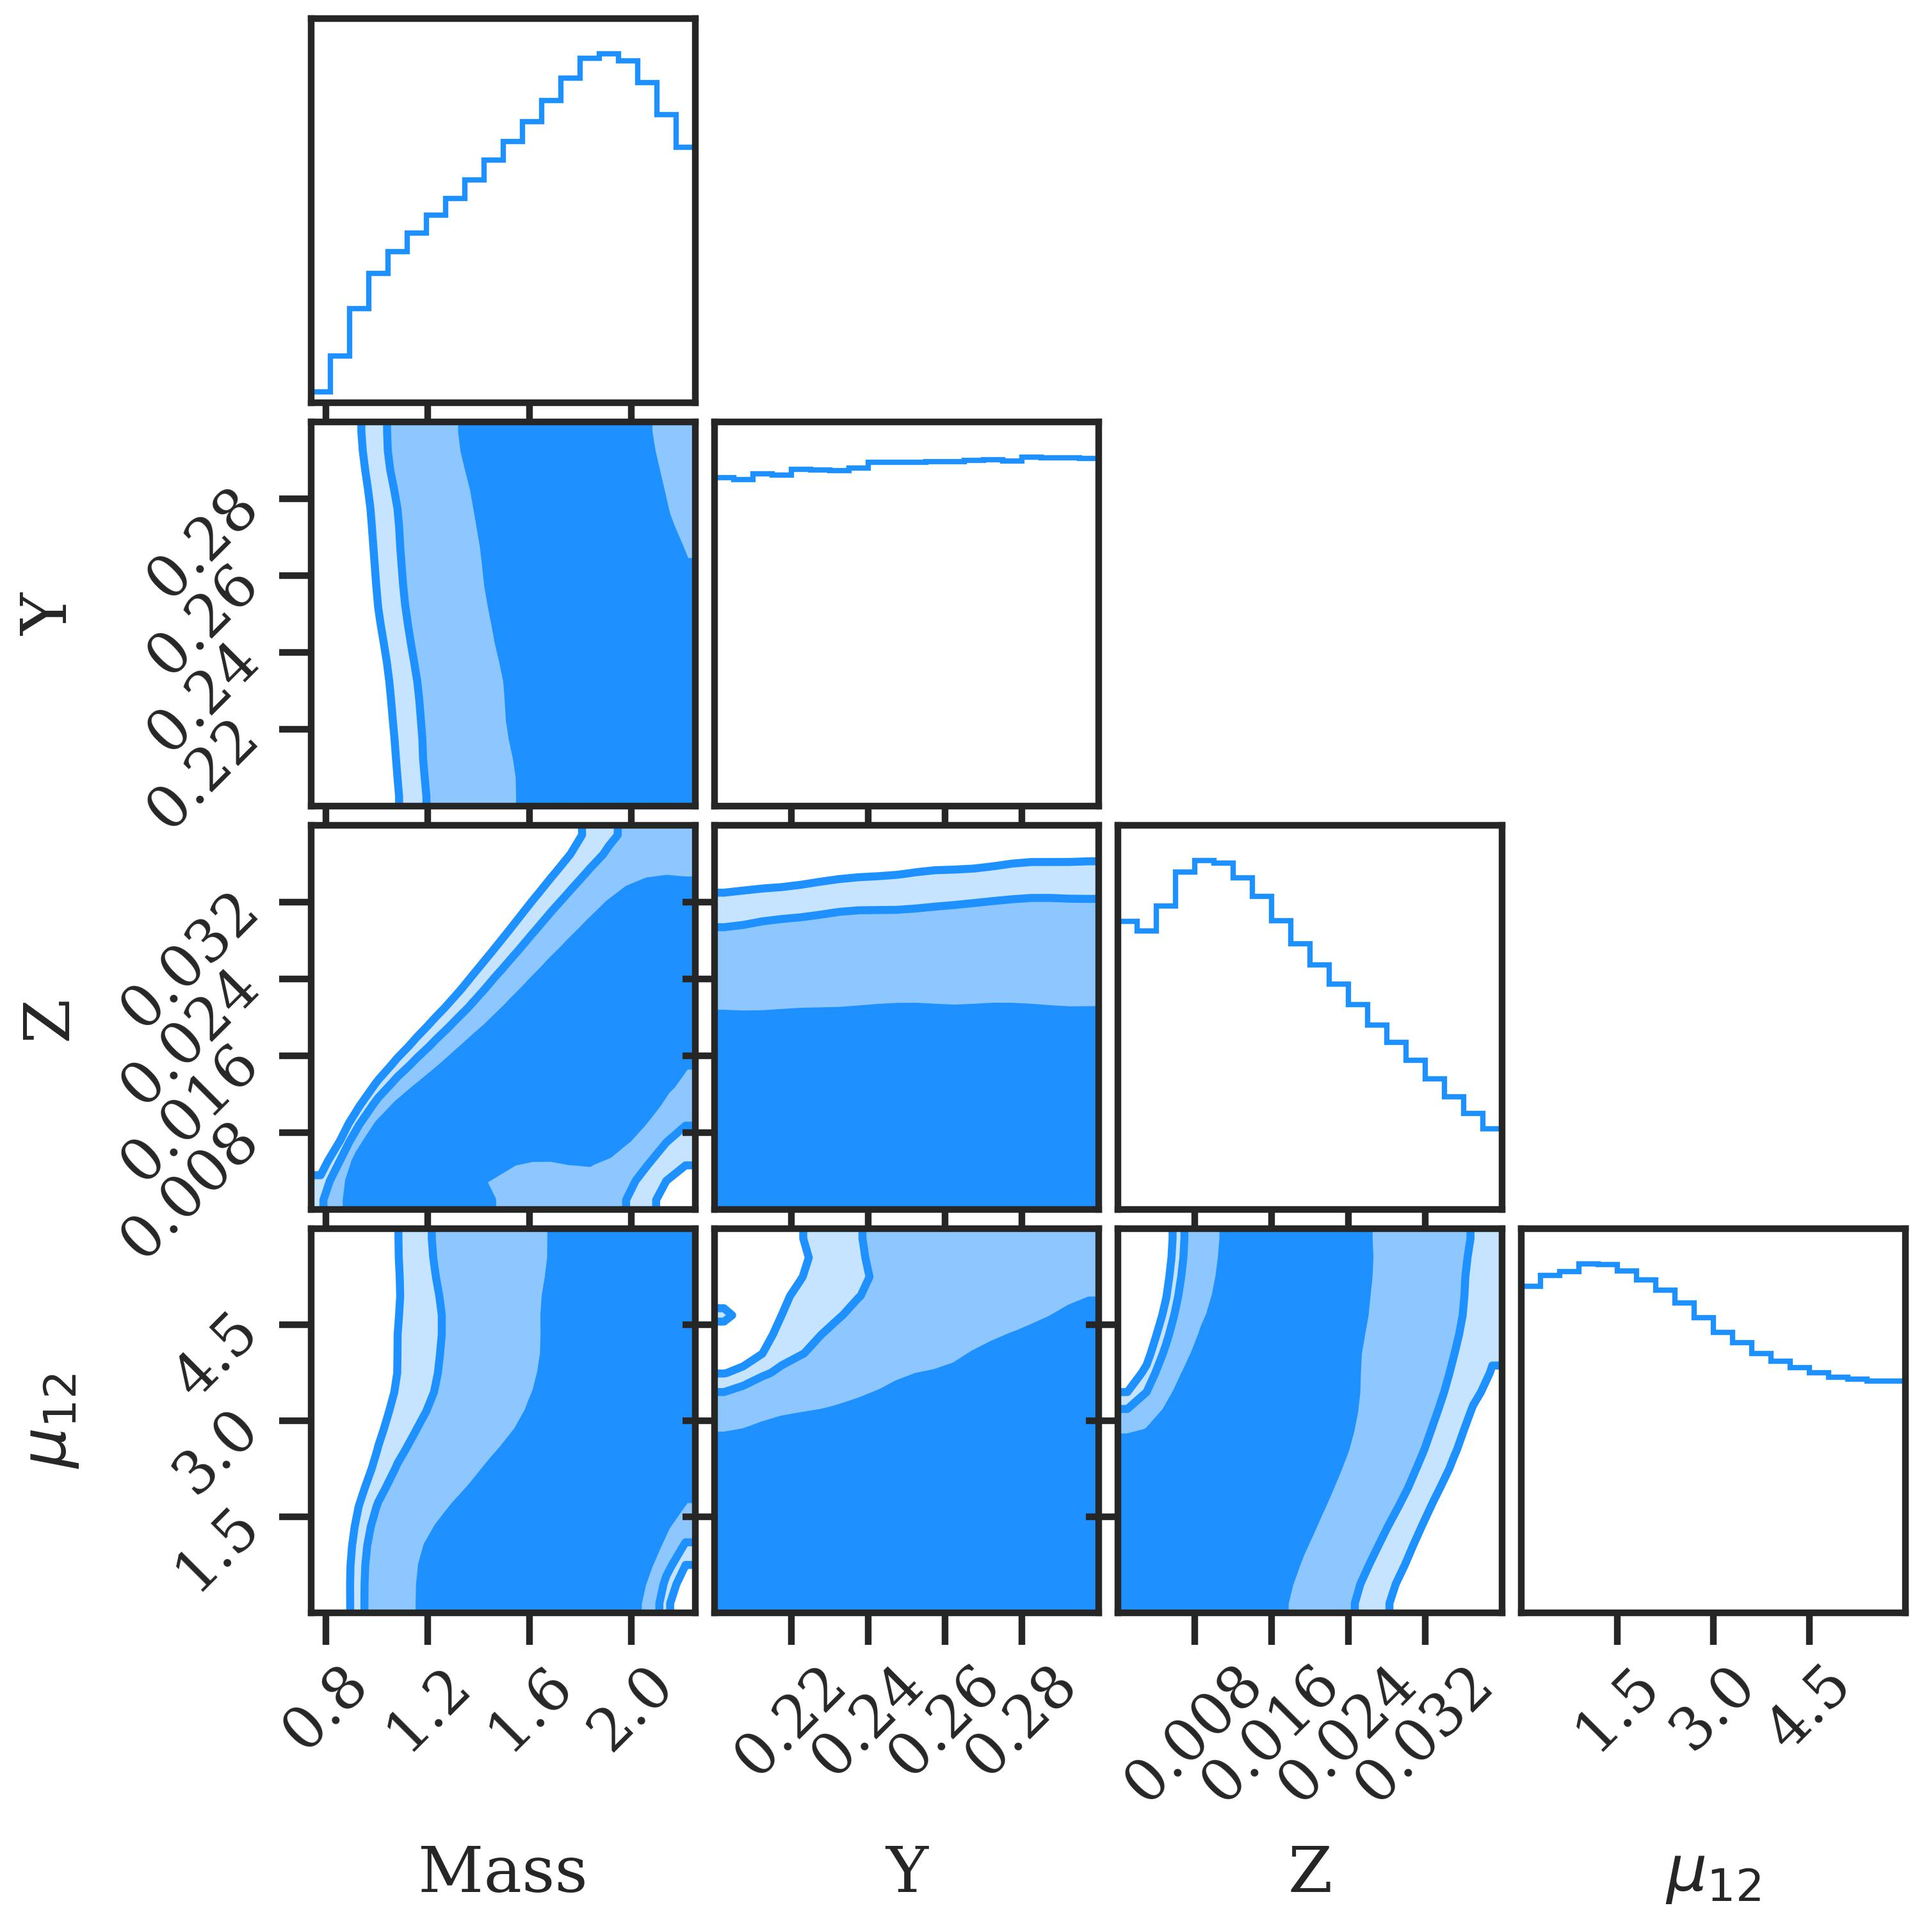
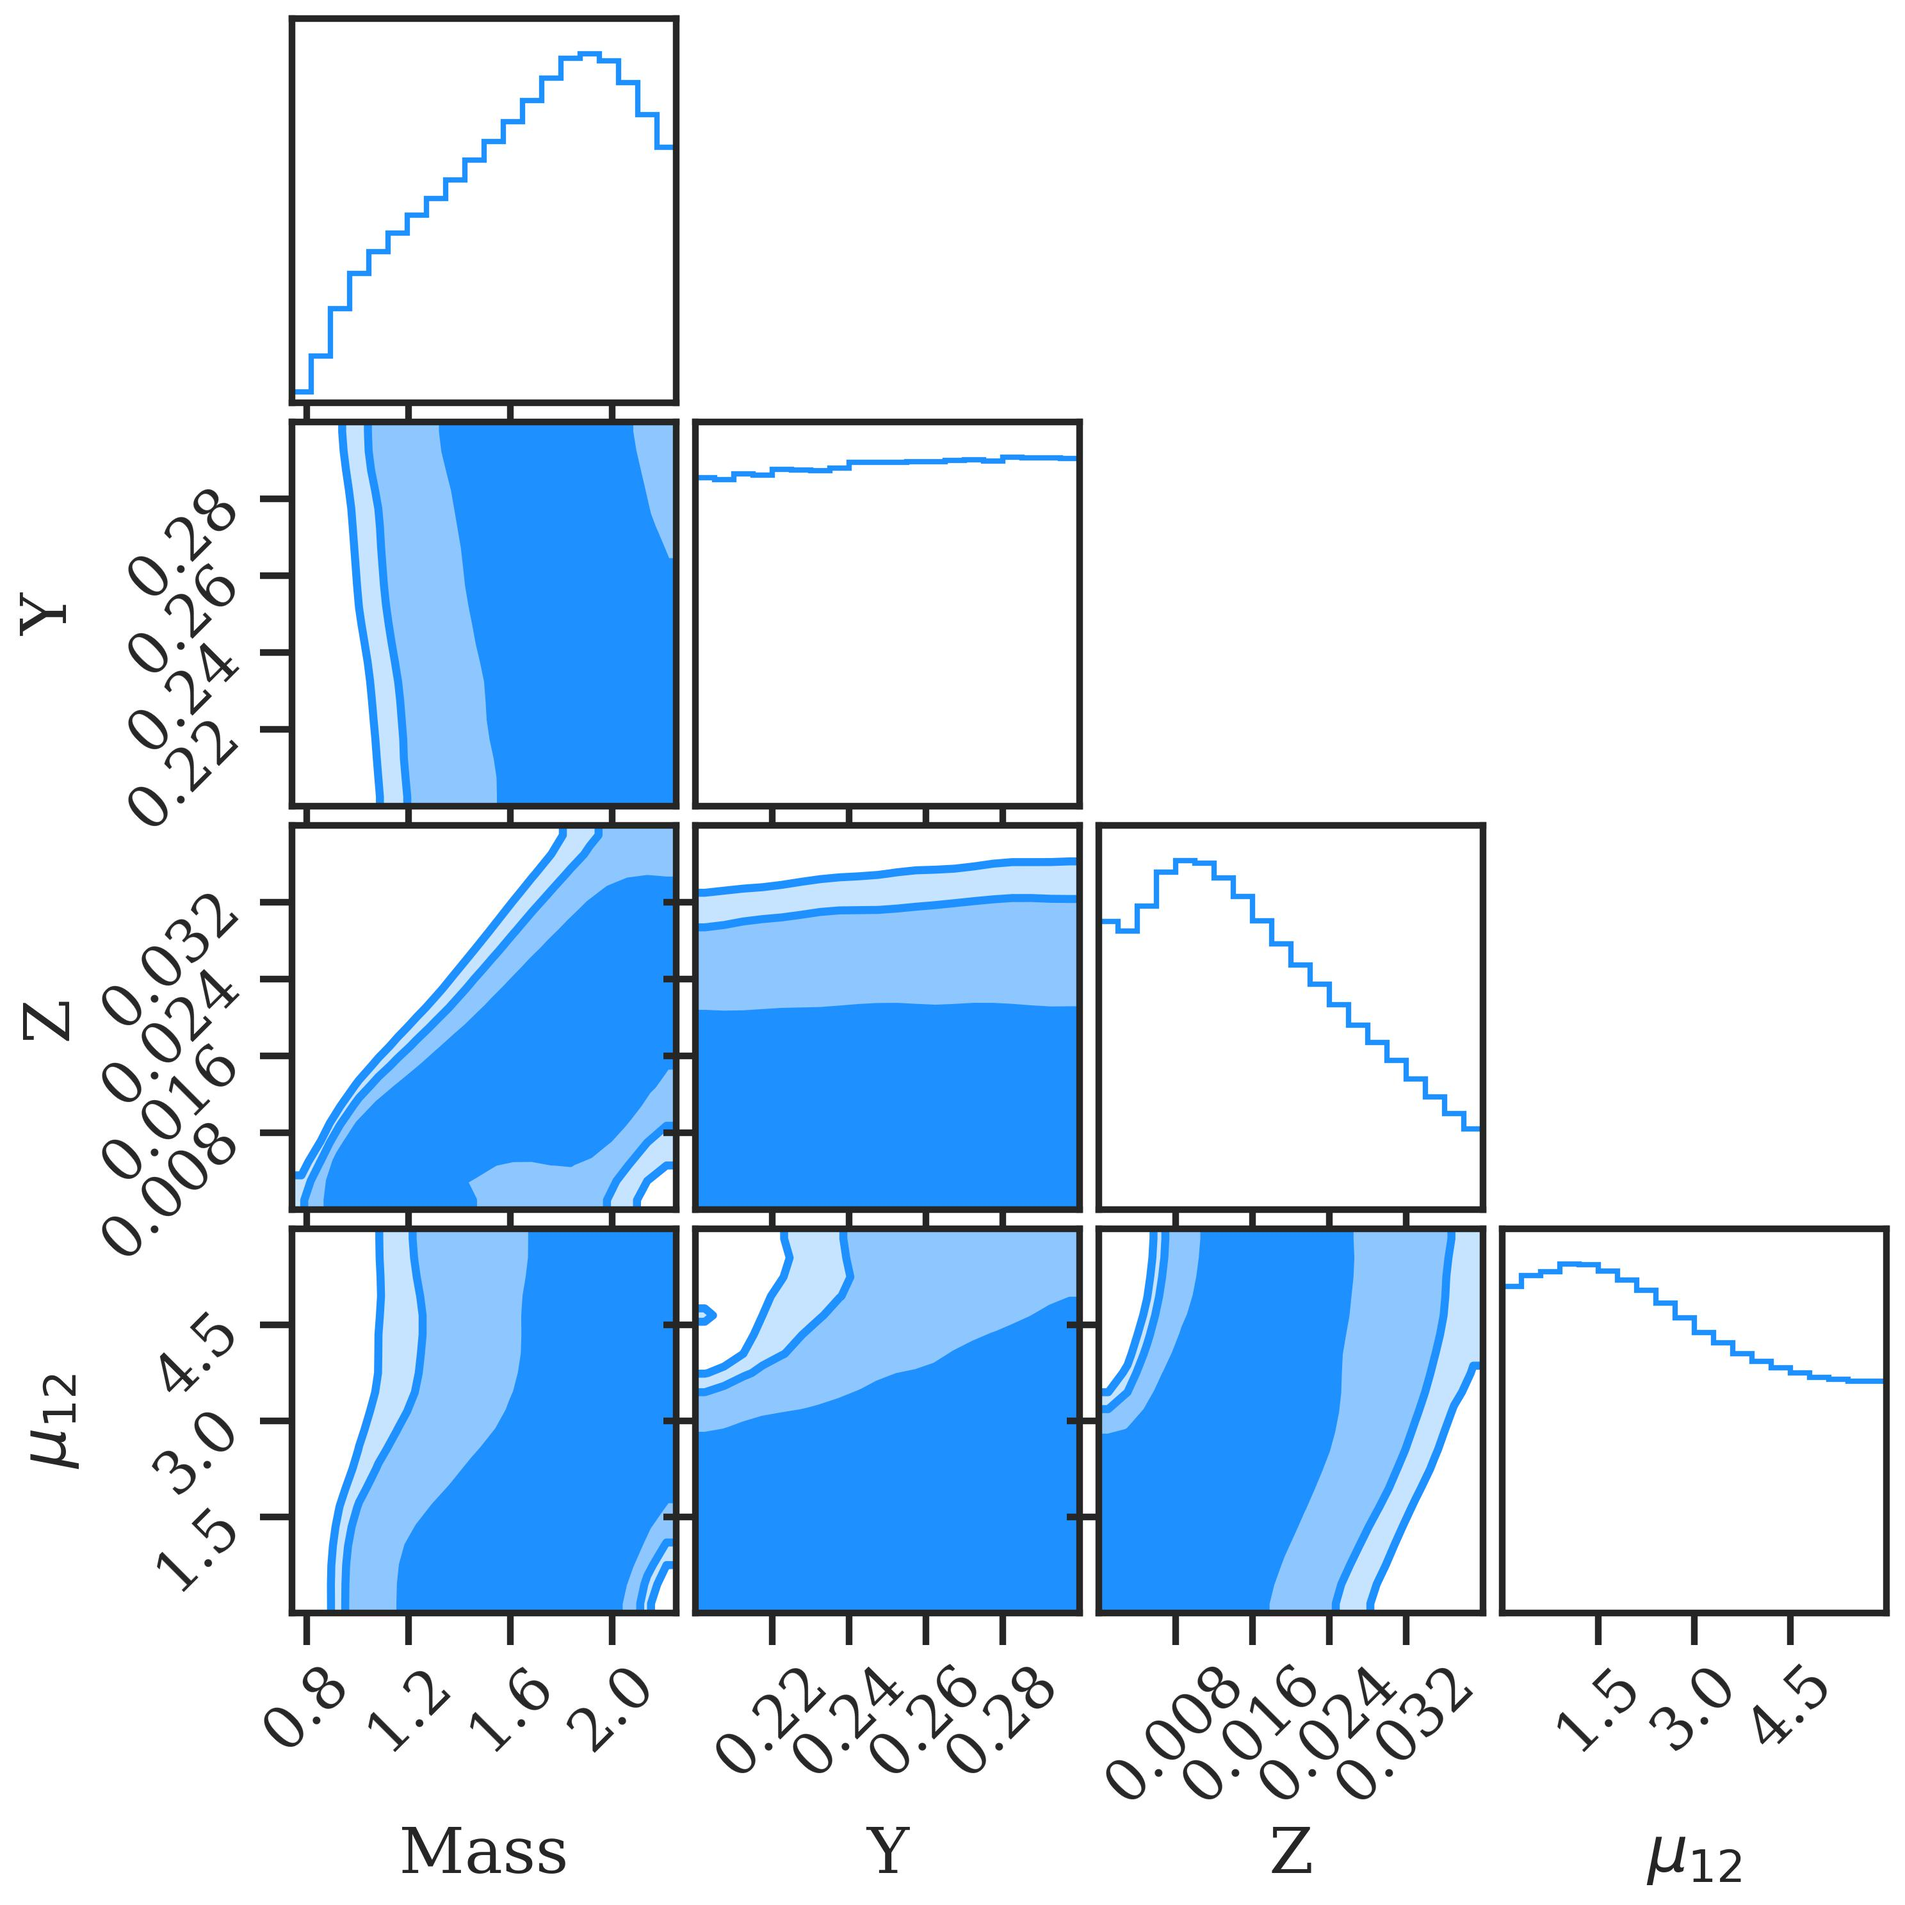
reduce pad

diff --git a/mcmc/analyzeMCMC.py b/mcmc/analyzeMCMC.py
@@ -39,7 +39,7 @@ def plotCorner(chain, log):
                         plot_datapoints=False,
                         fill_contours=True,
                         levels=[0.68, 0.90, 0.95],
-                        labelpad=0.3)
+                        labelpad=0.25)
 
     fig.savefig("corner_pretty.jpeg", bbox_inches='tight', transparent=False)
 
